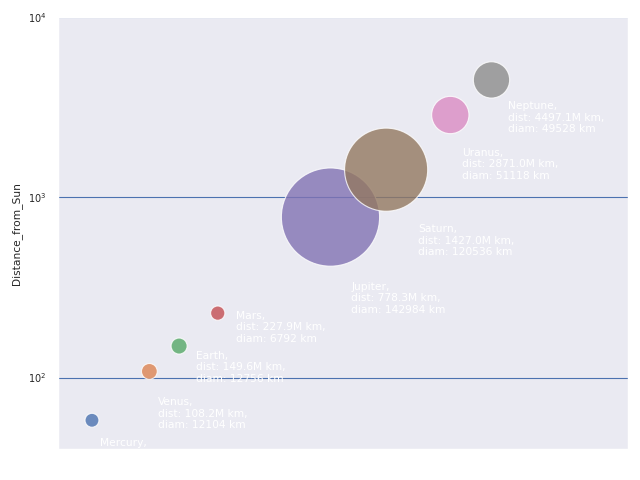
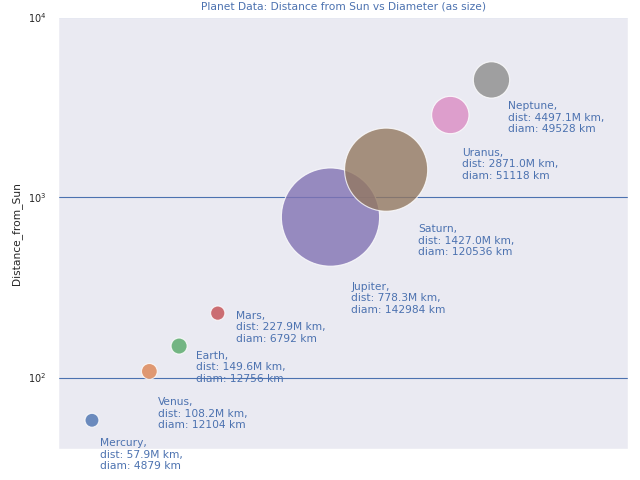
changed font color

diff --git a/planets.py b/planets.py
@@ -23,7 +23,7 @@ custom_params = {"axes.spines.right": False, "axes.spines.top": False,"axes.spin
 sns.set_theme(context='paper',
               font_scale = 0.8,
               style = 'darkgrid',
-              rc={'text.color':'w',
+              rc={'text.color':'b',
                   'grid.color': 'b',
                   'lines.color': 'b',
                   'lines.markerfacecolor': 'b',
